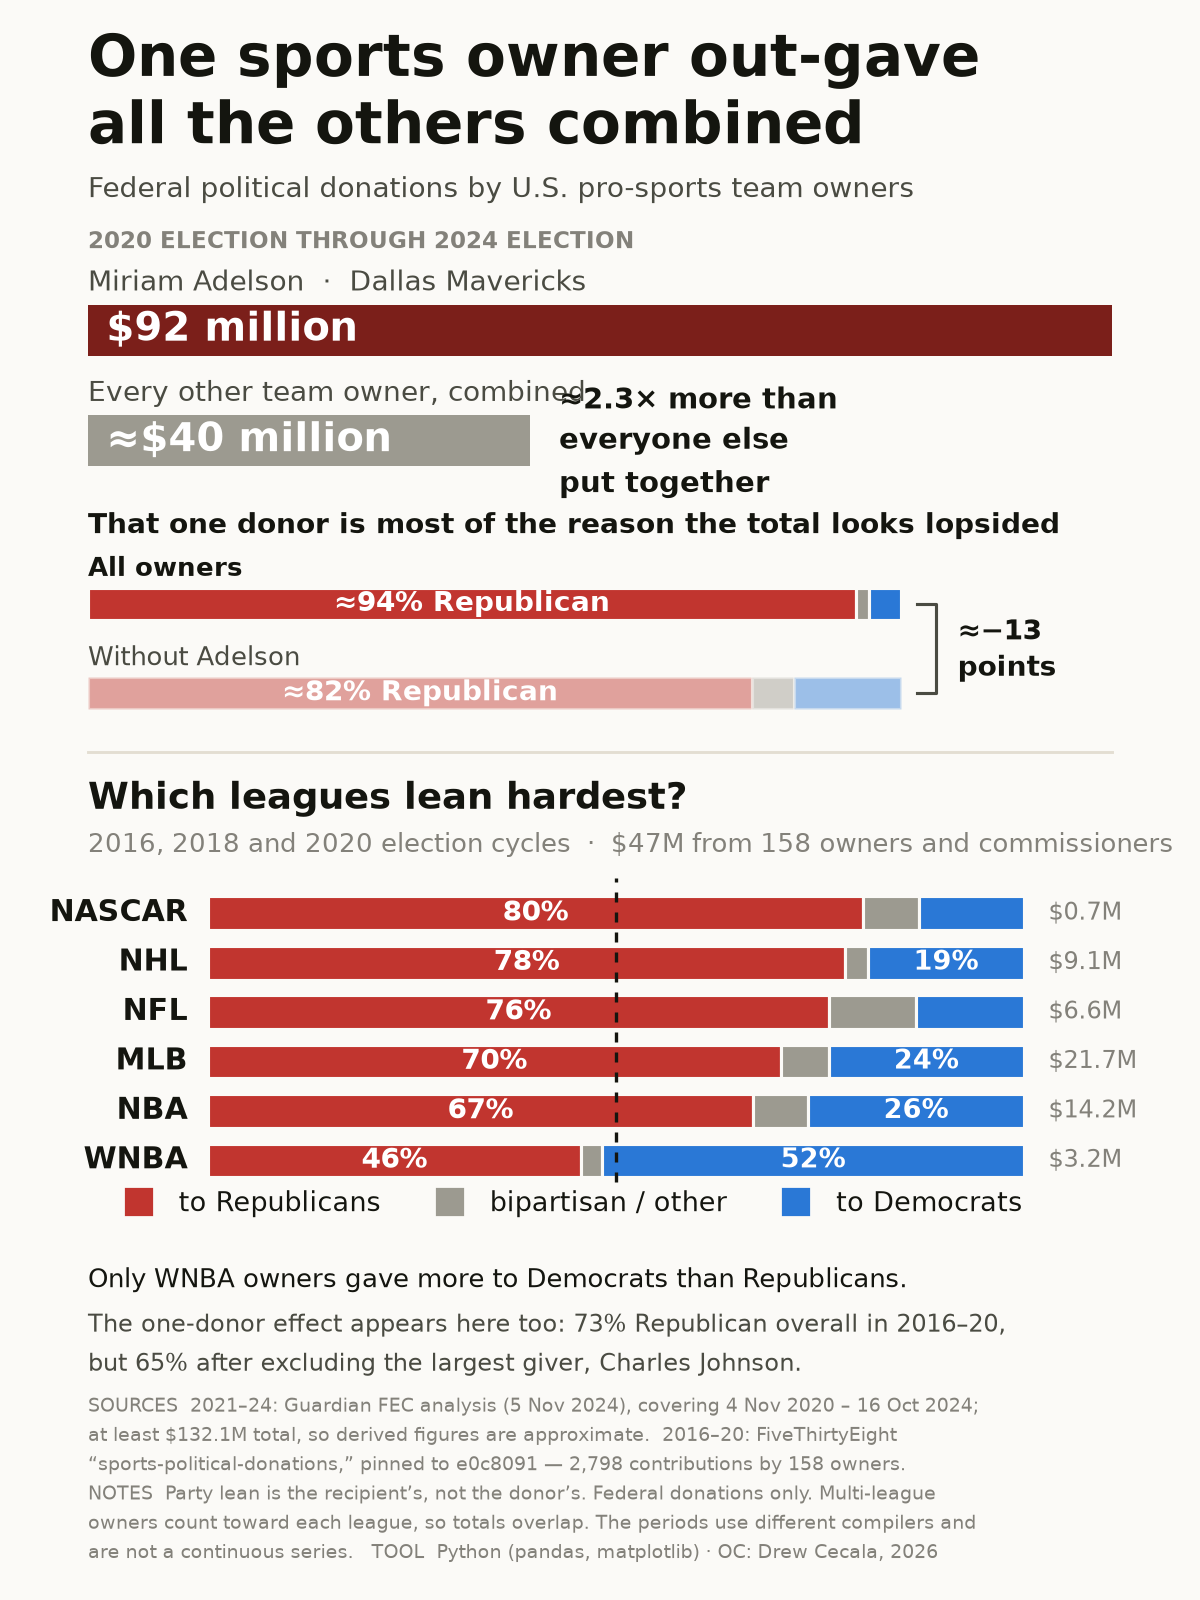
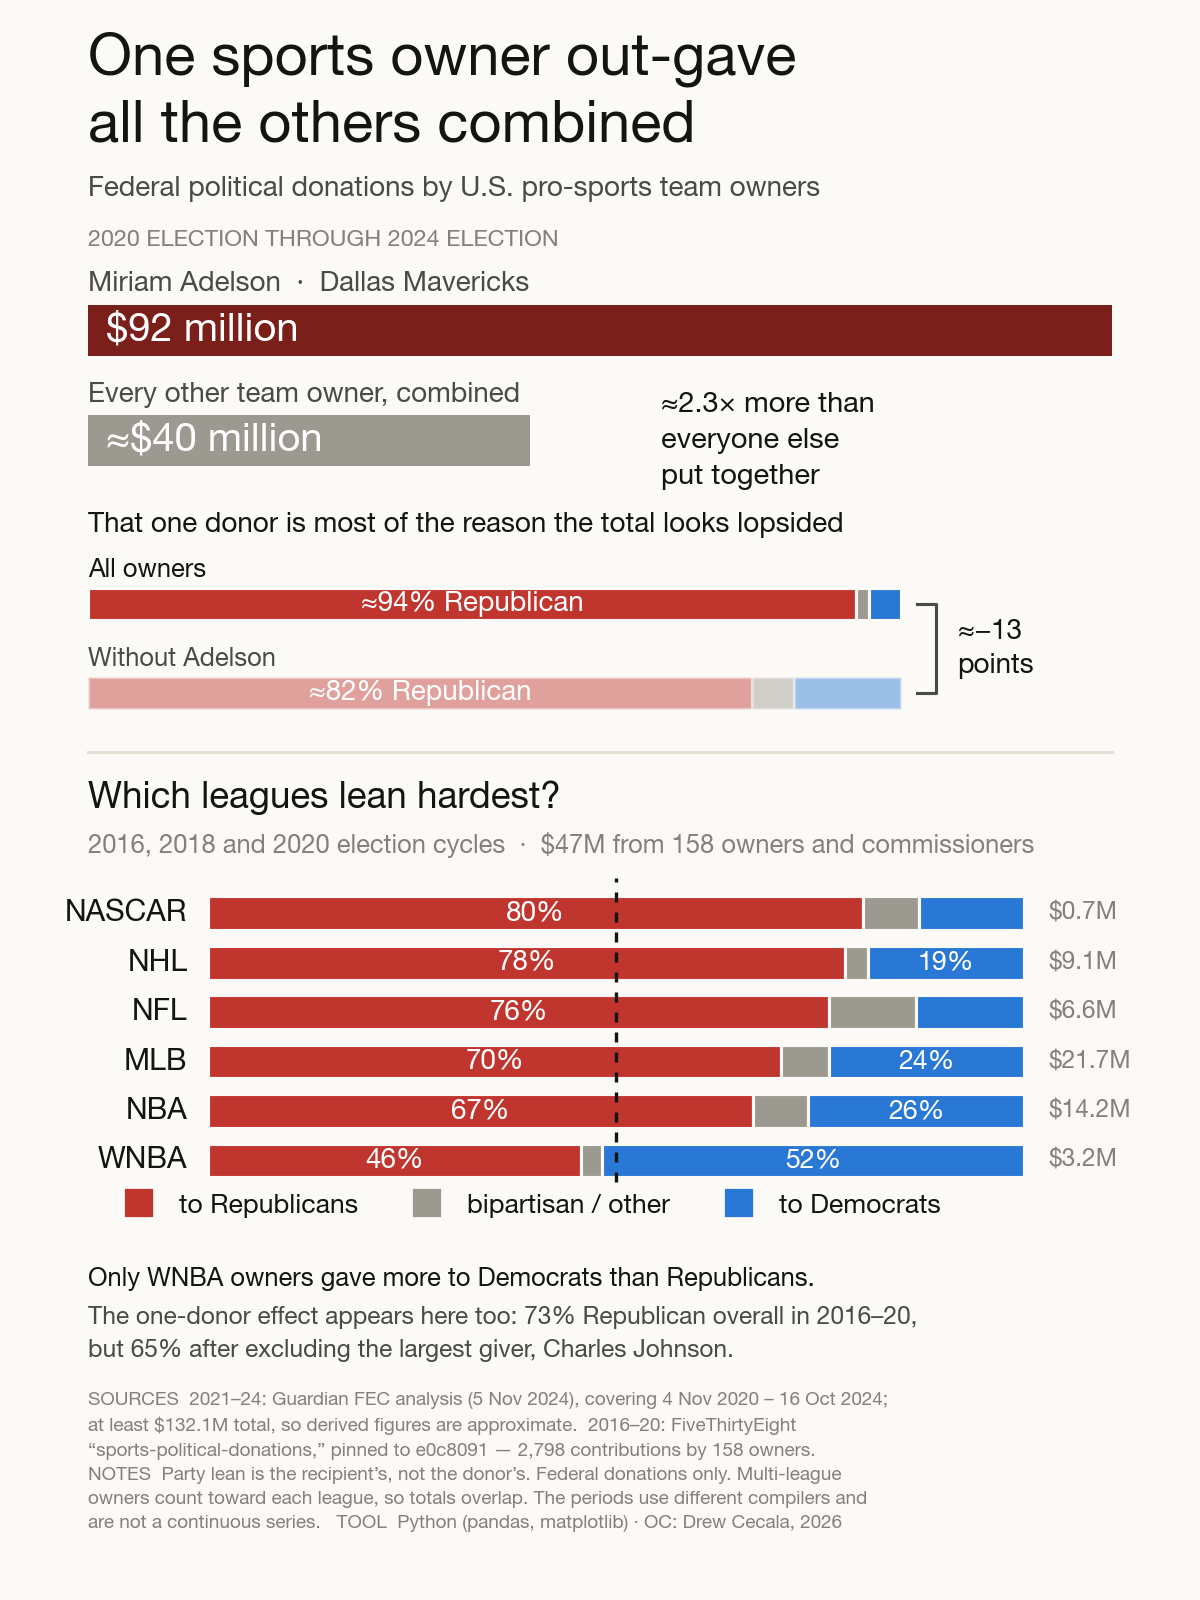
Fix mobile chart annotation spacing

diff --git a/scripts/build_reddit.py b/scripts/build_reddit.py
@@ -147,7 +147,7 @@ for yy, val, money, who, col in [
     hero.barh(yy, val, height=0.46, color=col, zorder=3)
     hero.text(1.8, yy, money, fontsize=18, fontweight="bold",
               ha="left", va="center", color="white", zorder=4)
-hero.text(46, -0.55, f"≈{RATIO:.1f}× more than\neveryone else\nput together",
+hero.text(56, -0.55, f"≈{RATIO:.1f}× more than\neveryone else\nput together",
           fontsize=13, fontweight="bold", ha="left", va="center",
           color=INK, linespacing=1.5)
 
